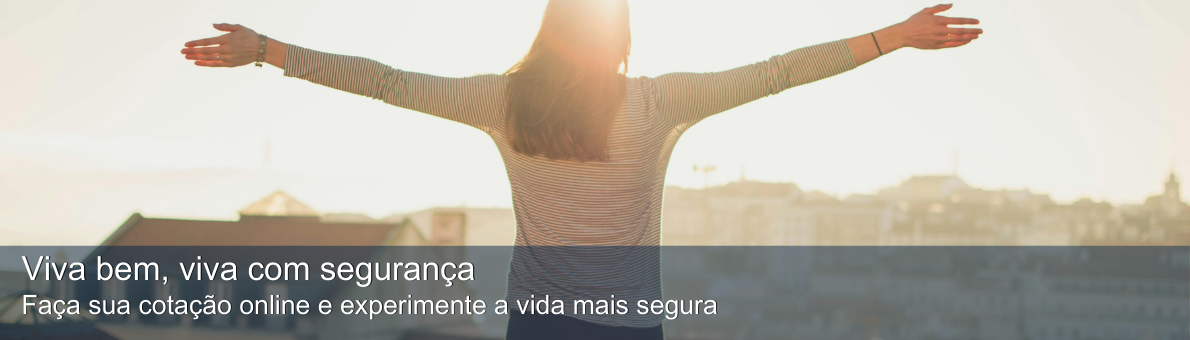
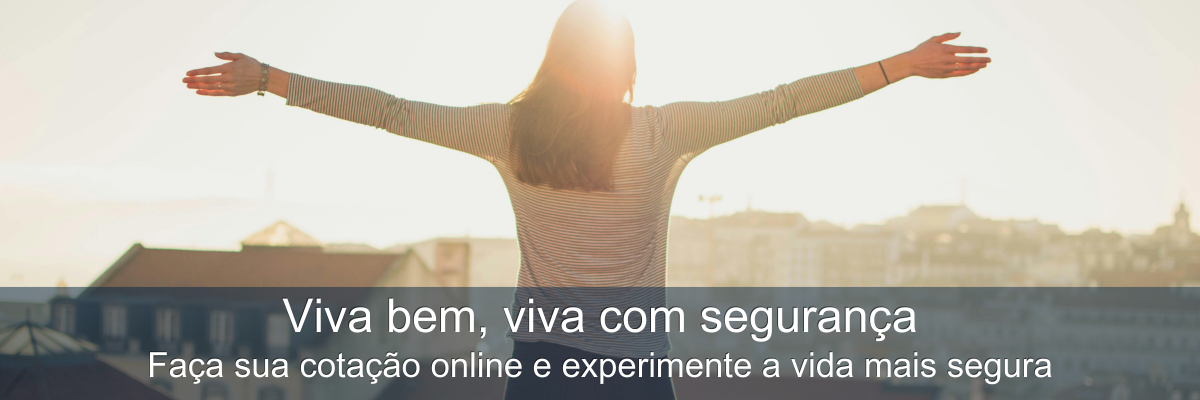
Centralizar a imagem do painel principal

diff --git a/Estilos/styles.css b/Estilos/styles.css
@@ -205,7 +205,7 @@ main {
 .painel-principal {
     position: relative;
     width: 100%;
-    padding: 10px;  
+    padding: 3px;  
     background: linear-gradient(to bottom, #012141, #031930b4); 
     
 }
@@ -214,7 +214,7 @@ main {
     position: relative;
     width: 100%; /* Ajuste para se adaptar a telas menores */
     max-width: 1200px; /* Largura máxima */
-    height: 350px; /* Altura ajustada para telas menores */
+    height: 400px; /* Altura ajustada para telas menores */
     margin: 0 auto; /* Centraliza o painel */
     overflow: hidden; /* Esconde o excesso das imagens */
     background-color: #f0f0f0; /* Cor de fundo */
